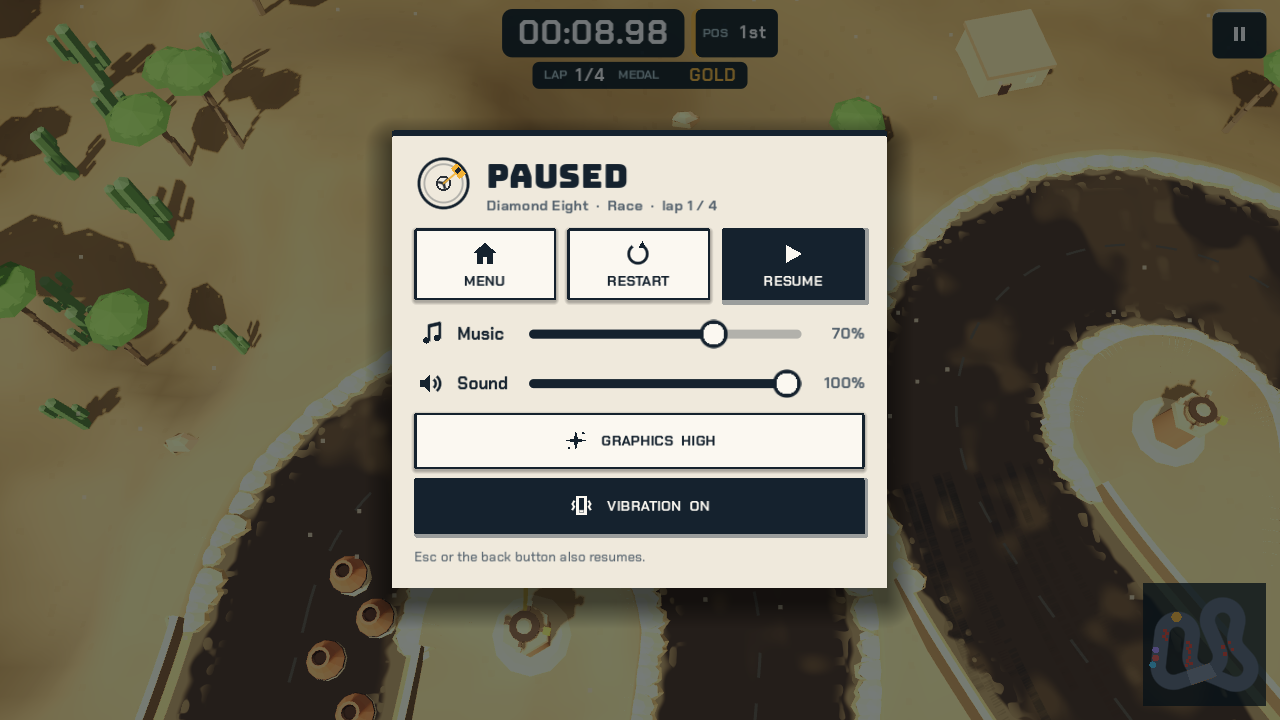
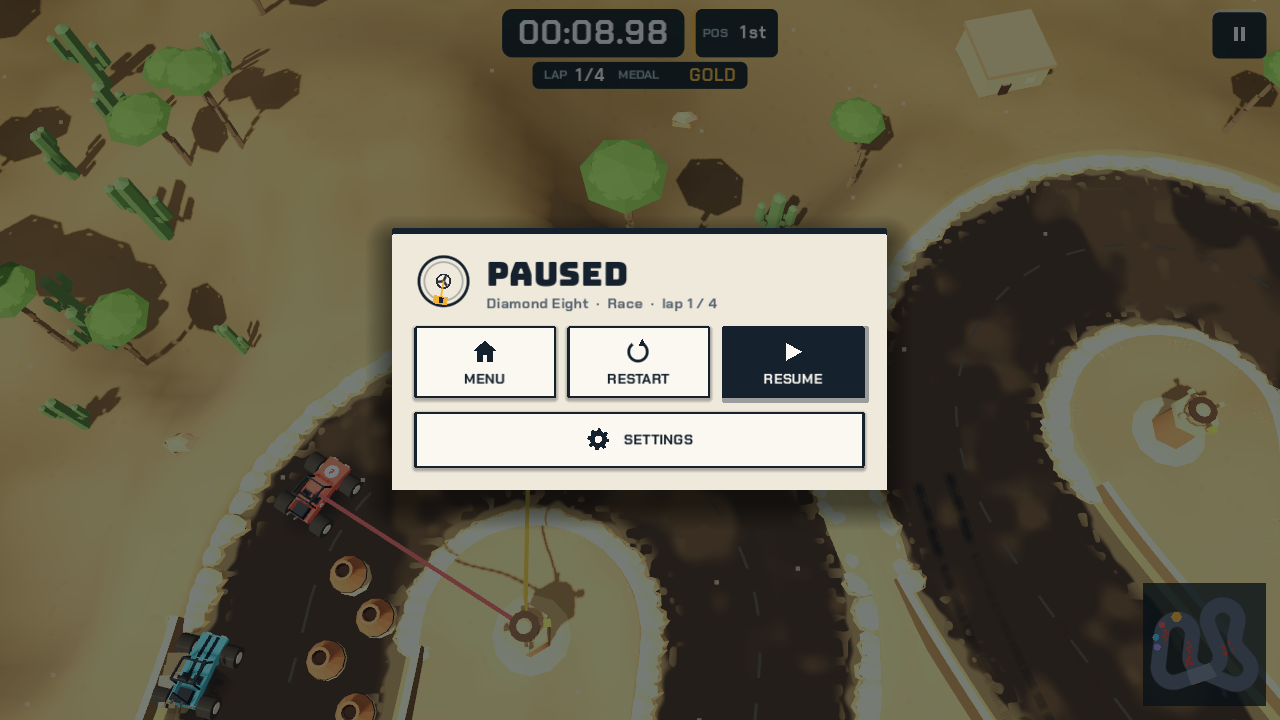
Pause menu: move options to a Settings page (#82)
The pause page now shows only where you are, Menu / Restart / Resume and a
Settings button; music, sound, graphics, ghost and vibration move to a
Settings page with Back. Esc / Android back on that page returns to the
pause page. New tests/pause_test.gd, README pause shots re-rendered.

Claude-Session: https://claude.ai/code/session_01VxP4fqjEmBGFY5MjCi7C27

diff --git a/AGENTS.md b/AGENTS.md
@@ -44,6 +44,7 @@ godot --headless --path . --script tests/sim_test.gd     # AI finishes every tra
 godot --headless --path . --script tests/levels_test.gd  # bends stay level, medal times, campaign
 godot --headless --path . --script tests/hook_test.gd    # hooking picks the current bend's tower
 godot --headless --path . --script tests/swipe_test.gd   # menu lists scroll, event swipe flips, tap opens
+godot --headless --path . --script tests/pause_test.gd   # pause page stays short, options on its Settings page
 godot --headless --path . --script tests/wall_test.gd    # a car on the road edge always gets off it again
 godot --headless --path . --script tests/tutorial_test.gd  # the first-launch tutorial can be finished
 godot --headless --path . --script tests/cosmetics_test.gd  # garage items: prices, every look builds, looks only
@@ -110,7 +111,9 @@ Only redo the ones where the change is visible, and put before/after images in t
   with the Track of the day as a separate photo). Handwritten notes use `Paper.note()` (Caveat, black
   pen / pencil grey / red) for asides only, never for something you must read to play. Motion is
   paper-like: pages slide in (`_land` in `menu.gd`), marker strokes draw on, medals are stamped
-  (`Stamp.thump()`). Any full-screen container laid over buttons must have
+  (`Stamp.thump()`). The in-race pause page stays short (Guillaume, 2026-11-13: it was too busy): where you
+  are, Menu / Restart / Resume and one Settings button; options live on the pause Settings page, never on
+  the pause page itself. Any full-screen container laid over buttons must have
   `mouse_filter = MOUSE_FILTER_IGNORE`, or it eats their taps (the home bookmarks broke that way).
 - Campaign progression: you need Gold (or Pivot) to advance. Gold on an event opens the next one;
   Gold on all 12 events finishes a world (`Campaign.cleared`, `Campaign.GOLD`). Finished worlds are

diff --git a/README.md b/README.md
@@ -19,7 +19,7 @@ ported 1:1, and the tracks build to the same geometry (checked against the proto
 - **Modes:** Time trial (default, solo vs your ghost, sets records) and Race (vs AI rivals, 1 or 2 players on one device, split by screen halves).
 - **Variants:** Standard, Reverse, Obstacles (breakable posts, +1 s each), Collect (gem line, +0.25 s per gem missed over the run).
 - **Tracks:** 17 original layouts, from Lasso to Twin Bend, with bridges where the road crosses itself and jumps on some.
-- **Music:** an original soundtrack (menu theme plus two race tracks, alternating by track), composed and synthesised in code by `tools/music/compose.py`. Music and sound effects have separate volume sliders (Settings on the home screen, and the pause menu), saved in `user://settings.cfg`.
+- **Music:** an original soundtrack (menu theme plus two race tracks, alternating by track), composed and synthesised in code by `tools/music/compose.py`. Music and sound effects have separate volume sliders (Settings on the home screen, and the Settings page of the pause menu), saved in `user://settings.cfg`.
 - **Records:** best lap (or Collect score) and the ghost lap are saved per track and variant in `user://records.cfg`. Races never set records.
 
 ## Code map
@@ -94,7 +94,11 @@ Captured from the current `main` web build.
   <img src="docs/portrait-collect.png" alt="Portrait mode: time trial on Starfish, Collect variant" width="30%">
 </p>
 
-![Pause menu](docs/pause.png)
+<p>
+  <img src="docs/pause.png" alt="Pause menu: Menu, Restart, Resume and Settings" width="49%">
+  <img src="docs/pause-settings.png" alt="The pause menu's Settings page" width="49%">
+</p>
+
 ![Loading screen](docs/loading.png)
 
 ## License

diff --git a/store/README.md b/store/README.md
@@ -31,8 +31,8 @@ SHOT_DIR=/tmp/shots/a godot --path . --resolution 1920x1080 --rendering-driver o
 
 Menus only (no race needed): `0,standard,4,race,1,snow` takes about 4 min.
 
-README shots: `docs/race-obstacles.png` = 03 at 1280x720, `docs/pause.png` = the 03 run with
-`SHOT_PAUSE=1`, `docs/menu.png` = menu_home, `docs/portrait-collect.png` =
+README shots: `docs/race-obstacles.png` = 03 at 1280x720, `docs/pause.png` (and `docs/pause-settings.png`
+= frame pause_settings) = the 03 run with `SHOT_PAUSE=1`, `docs/menu.png` = menu_home, `docs/portrait-collect.png` =
 `9,collect,20,trial,1,snow` at `--resolution 780x1386`, race_4, scaled to 390x693.
 Since the landscape relief, one run takes 10-20 min on 4 software-GL cores; run at most two at once. The AI race shifts when gameplay or scenery code changes, so check the frames and retune.
 
